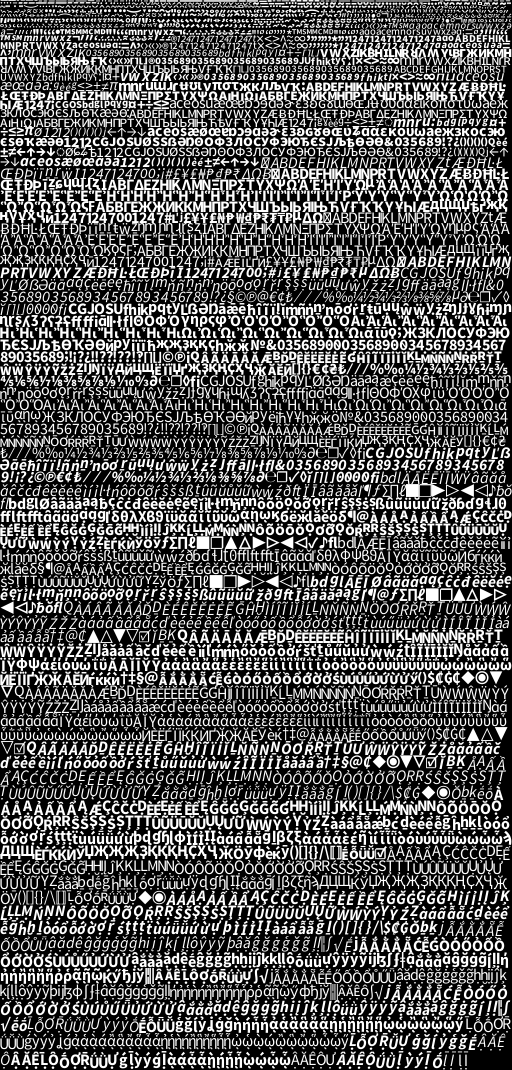
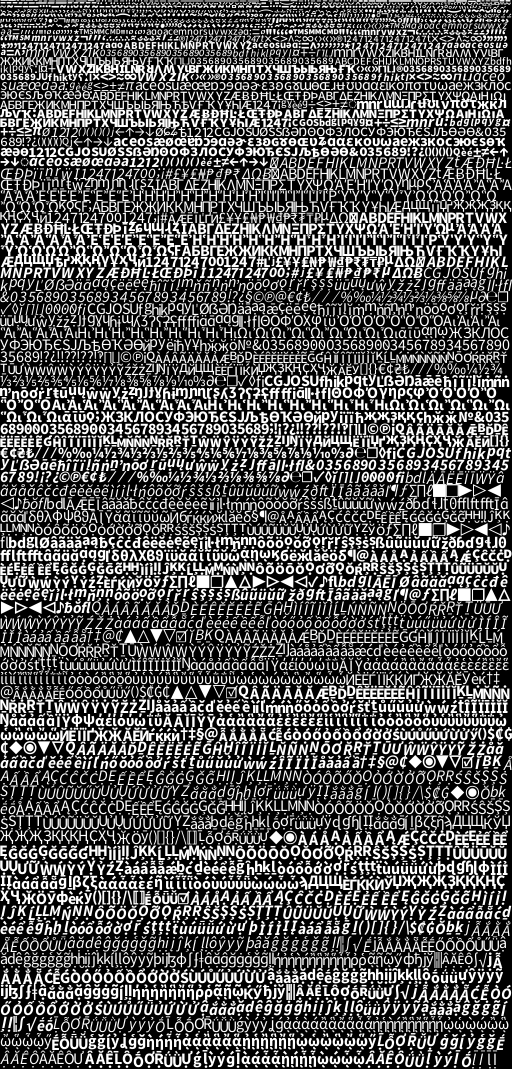
compile some shaders

diff --git a/sources/polysphere/coordinator.swift b/sources/polysphere/coordinator.swift
@@ -123,6 +123,13 @@ struct Coordinator
     private 
     var redraw:Bool = true 
     
+    private 
+    let shaders:
+    (
+        text:_FX.Program, 
+        sphere:_FX.Program 
+    )
+    
     // window framebuffer size is distinct from viewport size, 
     // as multiple viewports can be tiled in the same window 
     var window:Vector2<Float> = .zero 
@@ -138,6 +145,31 @@ struct Coordinator
         self.renderer       = renderer 
         self.controllers    = []
         self._style         = .init(wrappedValue: .init())
+        
+        do 
+        {
+            // compile shaders 
+            self.shaders.text   = try .init(
+                [
+                    (.vertex,   "shaders/text.vert"),
+                    (.geometry, "shaders/text.geom"),
+                    (.fragment, "shaders/text.frag"),
+                ], 
+                debugName: "diannamy://engine/shaders/text*")
+            self.shaders.sphere = try .init(
+                [
+                    (.vertex,   "shaders/sphere.vert"),
+                    (.fragment, "shaders/sphere.frag"),
+                ], 
+                debugName: "diannamy://engine/shaders/sphere*")
+        }
+        catch 
+        {
+            Log.trace(error: error)
+            Log.fatal("failed to compile one or more shader programs")
+        }
+        
+        dump(self.shaders)
     }
     
     mutating 

diff --git a/sources/polysphere/renderer.swift b/sources/polysphere/renderer.swift
@@ -1445,7 +1445,7 @@ enum _FX
             {
                 return 1 == directReturn(default: 0) 
                 {
-                    OpenGL.glGetShaderiv(self.program, OpenGL.LINK_STATUS, $0)
+                    OpenGL.glGetProgramiv(self.program, OpenGL.LINK_STATUS, $0)
                 }
             }
         }
@@ -1500,7 +1500,11 @@ enum _FX
                 }
                 
                 Log.note("compiled \(String.init(describing: type)) shader '\(name)' in program '\(debugName)'")
-                Log.note(core.info())
+                let log:String = core.info()
+                if !log.isEmpty 
+                {
+                    Log.note(log, from: .glsl)
+                }
                 shaders.append(core)
             }
             
@@ -1526,7 +1530,11 @@ enum _FX
             }
             
             Log.note("linked program '\(debugName)' (\(shaders.count) shaders)")
-            Log.note(self.core.info())
+            let log:String = self.core.info()
+            if !log.isEmpty 
+            {
+                Log.note(log, from: .glsl)
+            }
         }
         
         deinit 

diff --git a/sources/polysphere/library/log.swift b/sources/polysphere/library/log.swift
@@ -150,7 +150,7 @@ enum Log
         for (i, (type, message)):(Int, (type:Swift.Error.Type, message:String)) in 
             stack.reversed().enumerated()
         {
-            Self.print("\(Bold.on)\(Color.red)[\(i)]:\(Color.reset) \(String.init(describing: type))\(Bold.off)")
+            Self.print("\(Bold.on)\(Color.red)[\(i)]:\(Color.reset) \(String.init(reflecting: type))\(Bold.off)")
             Self.print(message)
         }
     }

diff --git a/sources/polysphere/main.swift b/sources/polysphere/main.swift
@@ -253,7 +253,7 @@ func main()
     glfwWindowHint(GLFW_SAMPLES, 4)
     
     guard let window:OpaquePointer = 
-        glfwCreateWindow(1200, 600, "Map Editor", nil, nil)
+        glfwCreateWindow(1200, 600, "<anonymous>", nil, nil)
     else
     {
         Log.fatal("failed to create window")
